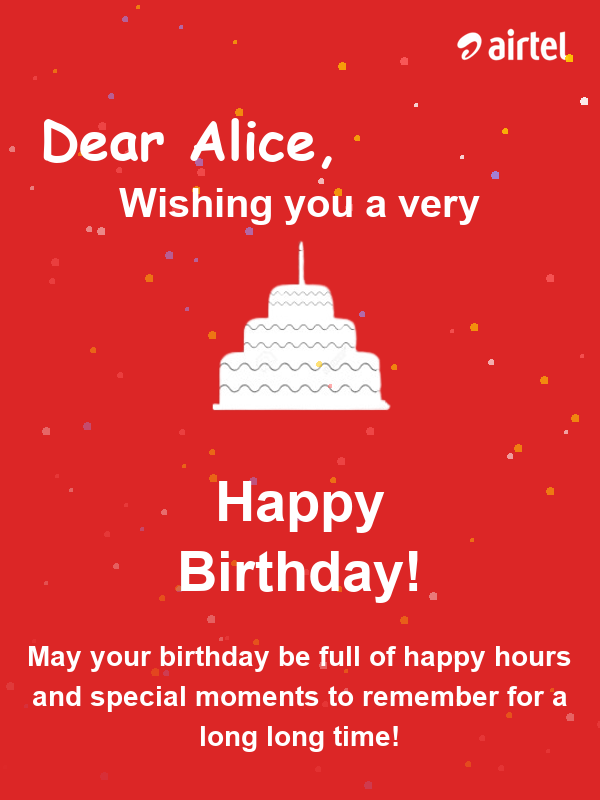
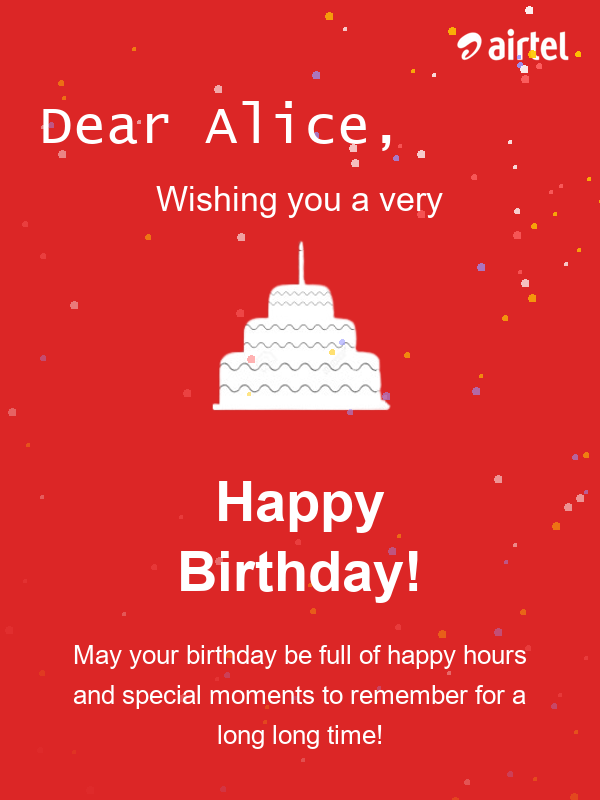
changes

diff --git a/card_generator.py b/card_generator.py
@@ -23,20 +23,20 @@ class CardGenerator:
 
     def load_fonts(self):
         try:
-            # Bold font for headings and main text
+            # Regular & Bold fonts
             self.bold_font = ImageFont.truetype("arialbd.ttf", 60)
             self.title_font = ImageFont.truetype("arialbd.ttf", 56)
-            self.subtitle_font = ImageFont.truetype("arialbd.ttf", 40)
-            self.body_font = ImageFont.truetype("arialbd.ttf", 28)
+            self.regular_font = ImageFont.truetype("arial.ttf", 34)
+            self.small_font = ImageFont.truetype("arial.ttf", 26)
 
-            # Cursive + Bold for "Dear <Name>"
+            # Cursive font for "Dear <Name>"
             try:
-                self.cursive_font = ImageFont.truetype("comicbd.ttf", 54)  # Comic Sans Bold
+                self.cursive_font = ImageFont.truetype("lucon.ttf", 54)  # Lucida Console fallback
             except:
-                self.cursive_font = ImageFont.truetype("arialbd.ttf", 54)
+                self.cursive_font = ImageFont.truetype("ariali.ttf", 54)  # Arial Italic as fallback
         except:
-            print("System fonts not found. Using default fallback.")
-            self.bold_font = self.title_font = self.subtitle_font = self.body_font = self.cursive_font = ImageFont.load_default()
+            print("System fonts not found. Using defaults.")
+            self.bold_font = self.title_font = self.regular_font = self.small_font = self.cursive_font = ImageFont.load_default()
 
     def draw_centered_text(self, draw, y, text, font, color="white"):
         text_width = draw.textlength(text, font=font)
@@ -54,7 +54,7 @@ class CardGenerator:
         except:
             print("Logo not found.")
 
-        # Cake Image
+        # Cake
         try:
             cake = Image.open(self.cake_path).convert("RGBA").resize((250, 250))
             cake_x = (self.width - cake.width) // 2
@@ -71,18 +71,18 @@ class CardGenerator:
             opacity = int(255 * (1 - dist / max_dist))
             base_color = random.choice([(255, 255, 255), (255, 200, 0), (150, 150, 255), (255, 100, 100)])
             color = base_color + (opacity,)
-            confetti = Image.new('RGBA', (r*2, r*2), (0, 0, 0, 0))
-            ImageDraw.Draw(confetti).ellipse((0, 0, r*2, r*2), fill=color)
+            confetti = Image.new('RGBA', (r * 2, r * 2), (0, 0, 0, 0))
+            ImageDraw.Draw(confetti).ellipse((0, 0, r * 2, r * 2), fill=color)
             img.paste(confetti, (x, y), confetti)
 
-        # Draw Text
+        # Draw text
         draw.text((40, 100), f"Dear {first_name},", fill="white", font=self.cursive_font)
-        self.draw_centered_text(draw, 180, "Wishing you a very", self.subtitle_font)
+        self.draw_centered_text(draw, 180, "Wishing you a very", self.regular_font)
         self.draw_centered_text(draw, 470, "Happy", self.title_font)
         self.draw_centered_text(draw, 540, "Birthday!", self.title_font)
-        self.draw_centered_text(draw, 640, "May your birthday be full of happy hours", self.body_font)
-        self.draw_centered_text(draw, 680, "and special moments to remember for a", self.body_font)
-        self.draw_centered_text(draw, 720, "long long time!", self.body_font)
+        self.draw_centered_text(draw, 640, "May your birthday be full of happy hours", self.small_font)
+        self.draw_centered_text(draw, 680, "and special moments to remember for a", self.small_font)
+        self.draw_centered_text(draw, 720, "long long time!", self.small_font)
 
         # Save
         output_path = os.path.join(self.output_dir, output_name)
